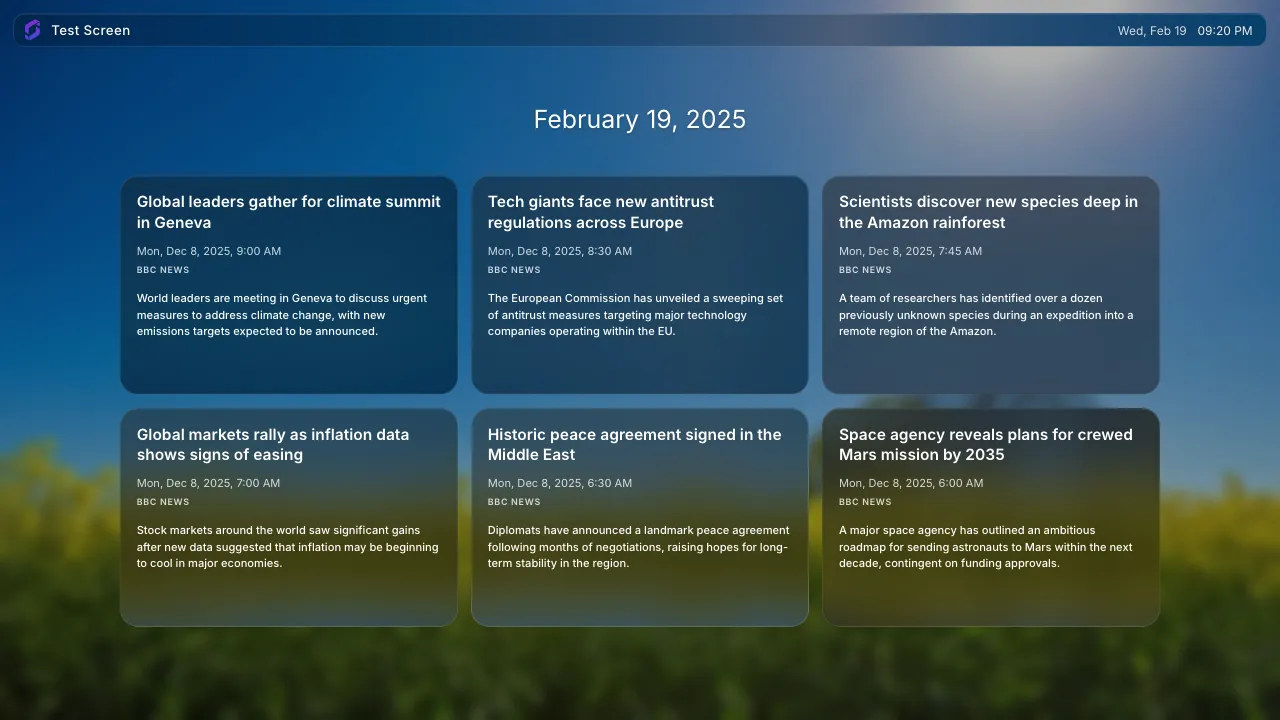
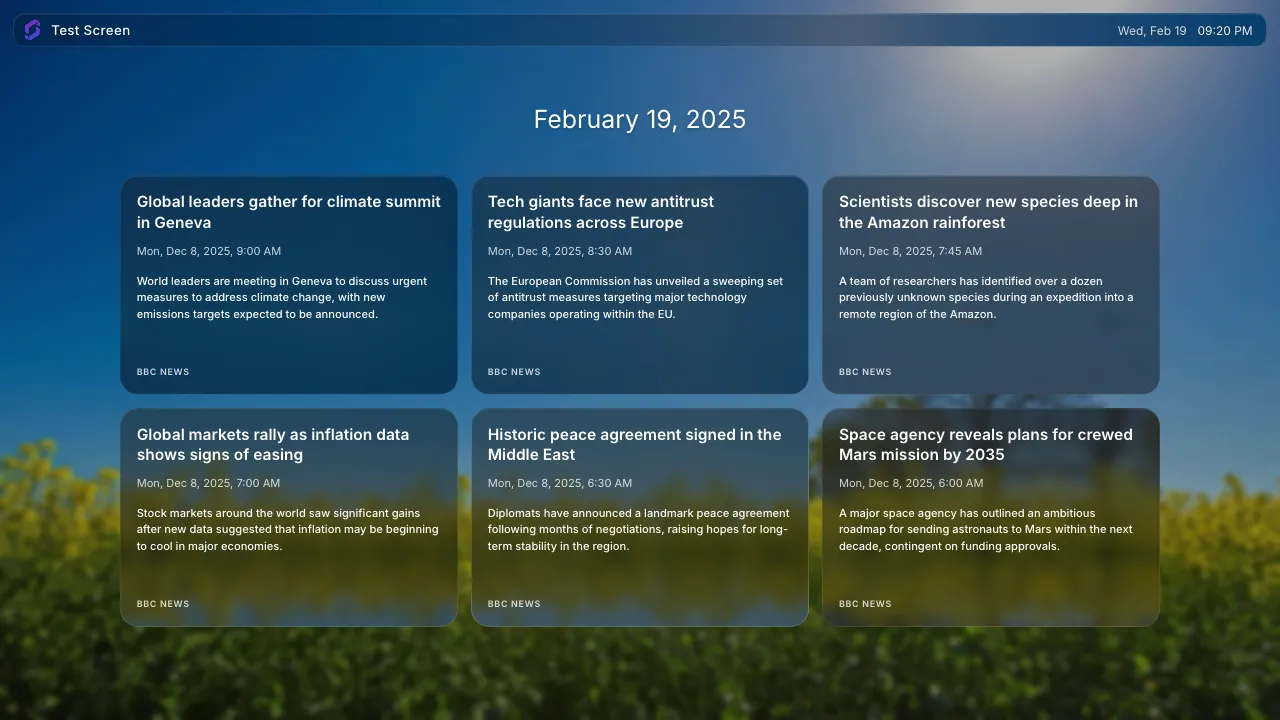
fix(rss-reader): apply UX and layout feedback
- Move source label below excerpt in card template
- Reduce background blur from 7px to 3px
- Reduce card blur from 32px to 10px
- Pin source label to card bottom with flex: 1 on excerpt
- Show 3 cards in portrait (was 2)
- Equalize portrait card heights with grid-auto-rows: 1fr
- Scale down portrait card font sizes
- Reduce portrait feed-date top padding

diff --git a/edge-apps/rss-reader/src/css/style.css b/edge-apps/rss-reader/src/css/style.css
@@ -43,7 +43,7 @@ body::before {
   z-index: var(--z-index-backdrop);
   pointer-events: none;
   background: rgba(0, 0, 0, 0.2);
-  backdrop-filter: blur(7px);
+  backdrop-filter: blur(3px);
 }
 
 auto-scaler {
@@ -96,7 +96,7 @@ auto-scaler {
   background: var(--card-bg);
   border: 0.75px solid var(--card-border);
   border-radius: var(--card-radius);
-  backdrop-filter: blur(32px);
+  backdrop-filter: blur(10px);
   overflow: hidden;
   box-shadow:
     inset 0 0.75px 0 rgba(255, 255, 255, 0.15),
@@ -140,6 +140,7 @@ auto-scaler {
 }
 
 .feed-card-excerpt {
+  flex: 1;
   margin: 0;
   font-size: 1.042rem;
   font-weight: 500;
@@ -171,7 +172,7 @@ auto-scaler {
   }
 
   .feed-date {
-    padding: 17.25rem 2.5rem 0;
+    padding: 10rem 2.5rem 0;
     font-size: 5.625rem;
     line-height: 7.375rem;
     white-space: normal;
@@ -181,7 +182,7 @@ auto-scaler {
     flex: unset;
     margin-top: auto;
     grid-template-columns: 1fr;
-    grid-template-rows: none;
+    grid-auto-rows: 1fr;
     align-content: start;
     padding: 3.75rem 2.5rem 7.5rem;
   }
@@ -191,30 +192,30 @@ auto-scaler {
     padding: 3.25rem;
   }
 
-  .feed-card:nth-child(n + 3) {
+  .feed-card:nth-child(n + 4) {
     display: none;
   }
 
   .feed-card-title {
-    font-size: 2.75rem;
-    line-height: 3.5rem;
-    -webkit-line-clamp: 3;
+    font-size: 2rem;
+    line-height: 2.625rem;
+    -webkit-line-clamp: 2;
   }
 
   .feed-card-date {
-    margin-top: 1rem;
-    font-size: 2rem;
-    line-height: 2.75rem;
-  }
-
-  .feed-card-source {
+    margin-top: 0.75rem;
     font-size: 1.5rem;
     line-height: 2rem;
   }
 
+  .feed-card-source {
+    font-size: 1.125rem;
+    line-height: 1.5rem;
+  }
+
   .feed-card-excerpt {
-    font-size: 2rem;
-    line-height: 2.75rem;
-    -webkit-line-clamp: 5;
+    font-size: 1.5rem;
+    line-height: 2rem;
+    -webkit-line-clamp: 3;
   }
 }

diff --git a/edge-apps/rss-reader/index.html b/edge-apps/rss-reader/index.html
@@ -20,9 +20,9 @@
             <div class="feed-card-meta">
               <h2 class="feed-card-title"></h2>
               <time class="feed-card-date"></time>
-              <span class="feed-card-source"></span>
             </div>
             <p class="feed-card-excerpt"></p>
+            <span class="feed-card-source"></span>
           </article>
         </template>
 
